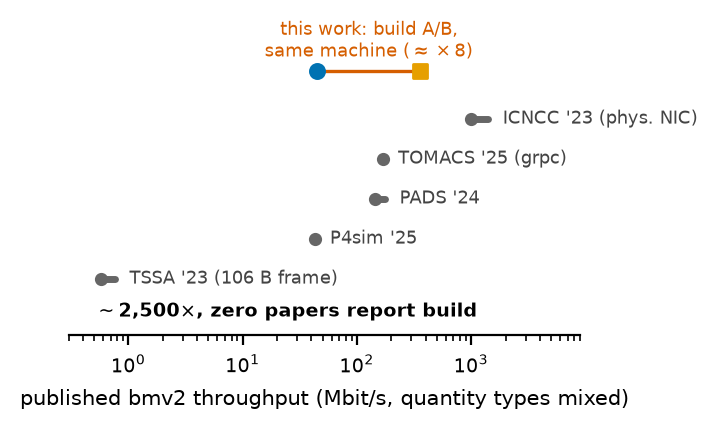
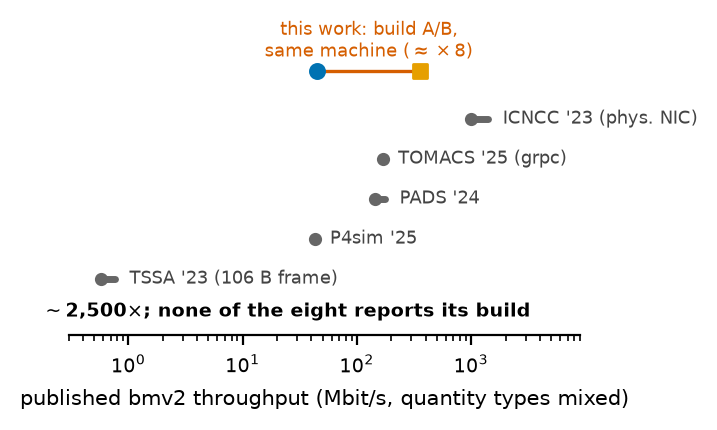
fig4: scope the in-figure negative to the eight bit-rate papers
The annotation read "~2,500x, zero papers report build" -- the only negative
statement on any reader path without a denominator, while every sentence in
the paper is scoped to a named set. Now "none of the eight reports its build",
matching the figure caption ("in any of the eight"). Regenerated with the
pinned .plotvenv interpreter; fig1-fig3 are byte-identical to the committed
PNGs (positive control), only fig4 changed (c4c17795 -> 6b55336a).

[Co-developed with claude code -- Adam]

Changed region(s): [[0.0614, 0.6953, 0.7364, 0.7558]]

diff --git a/doc/2026-08-29_bmv2-performance-study-figs/make_figs.py b/doc/2026-08-29_bmv2-performance-study-figs/make_figs.py
@@ -178,7 +178,12 @@ def fig4():
     ax.plot([45, 360], [5.2, 5.2], "-", color=C_HL, lw=1.2, zorder=3)
     ax.annotate("this work: build A/B,\nsame machine ($\\approx\\times$8)",
                 (128, 5.55), ha="center", fontsize=6.5, color=C_HL)
-    ax.annotate("$\\sim$2,500$\\times$, zero papers report build",
+    # 2026-09-02: the in-figure line used to read "zero papers report build" with
+    # no denominator. Every negative statement in the paper is scoped to a named
+    # set (the 12 measuring papers / the eight that print a bit rate); the figure
+    # is the only reader path that carried an unscoped one. "the eight" = the
+    # bit-rate papers this axis draws from (fig caption: "in any of the eight").
+    ax.annotate("$\\sim$2,500$\\times$; none of the eight reports its build",
                 (24, -0.95), ha="center", fontsize=7, fontweight="bold")
     ax.set_xscale("log")
     ax.set_xlim(0.3, 9000)
